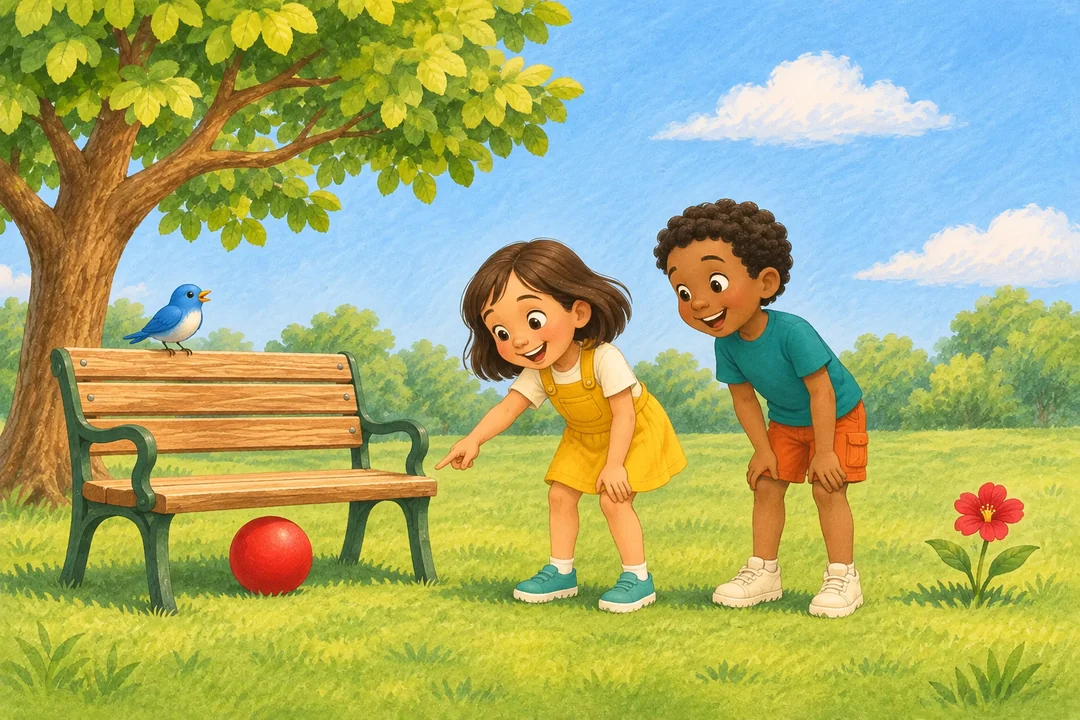
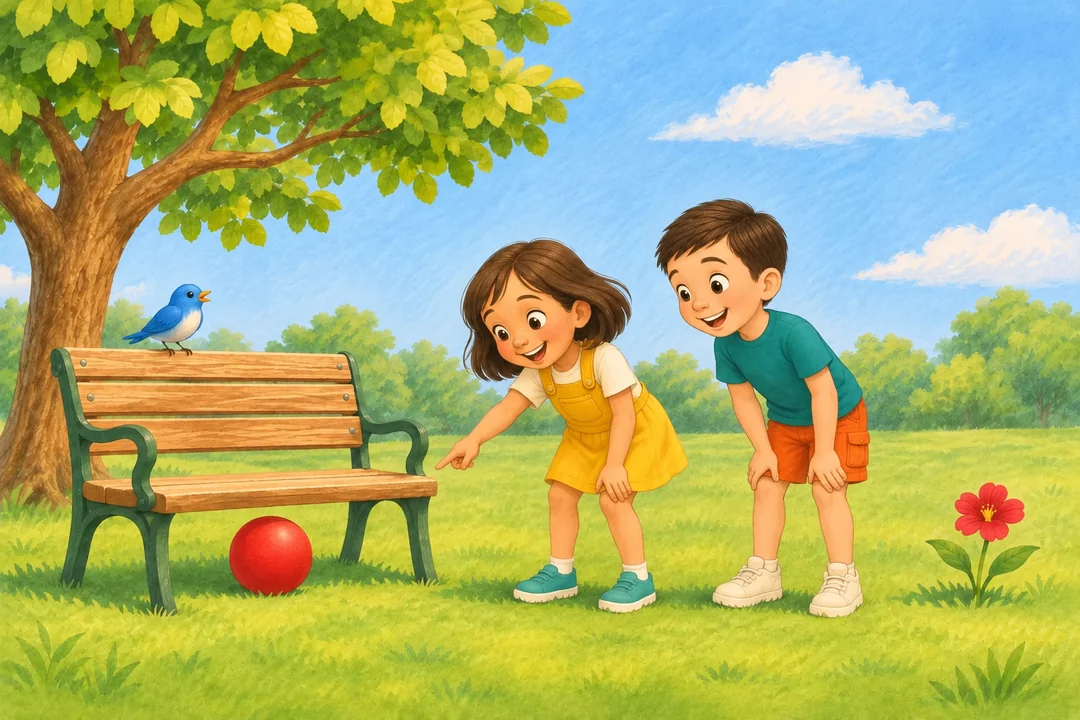
Add the first school bag lesson and update Ben's artwork

diff --git a/shared/fluentKids/school-bag.html b/shared/fluentKids/school-bag.html
@@ -1,0 +1,321 @@
+<div id="kids-full-lesson" aria-label="What’s in My Bag?" data-lesson="school-bag" data-japanese="true" data-tutor="false">
+  <header class="kf-mast">
+    <a class="kf-brand" data-course-link><span aria-hidden="true" class="kf-logo">f</span>Fluent Kids</a>
+    <div aria-label="Age version" class="kf-view" role="group">
+      <button aria-pressed="true" data-age="6-8" type="button">Ages 6–8<span class="kf-ja" lang="ja">6〜8さい</span></button>
+      <button aria-pressed="false" data-age="9-12" type="button">Ages 9–12<span class="kf-ja" lang="ja">9〜12さい</span></button>
+    </div>
+    <div aria-label="Lesson view" class="kf-view" data-view-tools role="group">
+      <button aria-pressed="true" data-view="student" type="button">Student view<span class="kf-ja" lang="ja">子ども用</span></button>
+      <button aria-pressed="false" data-view="tutor" type="button">Tutor guide<span class="kf-ja" lang="ja">先生用ガイド</span></button>
+    </div>
+    <div class="kf-view">
+      <button aria-label="Show Japanese translations" aria-pressed="true" data-japanese-toggle lang="ja" type="button">日本語</button>
+    </div>
+  </header>
+
+  <div class="kf-hero">
+    <div>
+      <p class="kf-kicker">Level 1 · Unit 2 · Lesson 1<span class="kf-ja" lang="ja">レベル1・ユニット2・レッスン1</span></p>
+      <h1>What’s in My Bag?<span class="kf-ja" lang="ja">かばんの中は何かな？</span></h1>
+      <p class="kf-objective">I can ask what’s in someone’s school bag and say what I have.<span class="kf-ja" lang="ja">かばんの中に何があるか聞いたり、自分の持ちものを言ったりできるよ。</span></p>
+      <div class="kf-lesson-tags">
+        <span>My School Bag<span class="kf-ja" lang="ja">学校のかばん</span></span>
+        <span>23 minutes<span class="kf-ja" lang="ja">23分</span></span>
+        <span>+2 minutes optional<span class="kf-ja" lang="ja">時間があれば＋2分</span></span>
+      </div>
+    </div>
+    <img class="kf-hero-art" data-art="school-bag-story" alt="Mia opens her blue school bag. Ben looks at a book, pencil, and eraser on the desk.">
+  </div>
+
+  <nav aria-label="Lesson sections" class="kf-map">
+    <a href="#kf-intro"><b>1</b><span class="kf-nav-copy">Hello<span class="kf-ja" lang="ja">はじめよう</span></span></a>
+    <a href="#kf-learn"><b>2</b><span class="kf-nav-copy">New words<span class="kf-ja" lang="ja">あたらしいことば</span></span></a>
+    <a href="#kf-language"><b>3</b><span class="kf-nav-copy">Say it<span class="kf-ja" lang="ja">言ってみよう</span></span></a>
+    <a href="#kf-story"><b>4</b><span class="kf-nav-copy">Story time<span class="kf-ja" lang="ja">お話の時間</span></span></a>
+    <a href="#kf-practice"><b>5</b><span class="kf-nav-copy">Practice<span class="kf-ja" lang="ja">れんしゅう</span></span></a>
+    <a href="#kf-mission"><b>6</b><span class="kf-nav-copy">Your turn<span class="kf-ja" lang="ja">きみのばん</span></span></a>
+    <a href="#kf-feedback"><b>7</b><span class="kf-nav-copy">Good job<span class="kf-ja" lang="ja">ふりかえり</span></span></a>
+  </nav>
+
+  <div class="kf-main">
+    <section class="kf-section" id="kf-intro">
+      <div class="kf-section-head">
+        <span class="kf-number">1</span>
+        <div><p class="kf-kicker">Introduce<span class="kf-ja" lang="ja">はじめに</span></p><h2>Ready for school?<span class="kf-ja" lang="ja">学校の準備はできたかな？</span></h2></div>
+        <span class="kf-time">1 minute<span class="kf-ja" lang="ja">1分</span></span>
+      </div>
+      <div class="kf-split">
+        <div class="kf-scene"><img data-art="school-bag-story" alt="Mia and Ben with a blue school bag and three school supplies."></div>
+        <div class="kf-copy">
+          <h3>Mia has a school bag.<span class="kf-ja" lang="ja">ミアは学校にかばんを持ってきたよ。</span></h3>
+          <p>She opens it to show Ben what she brought.<span class="kf-ja" lang="ja">かばんを開けて、持ってきたものをベンに見せるよ。</span></p>
+          <div class="kf-prompt"><strong>What color is Mia’s bag?<span class="kf-ja" lang="ja">ミアのかばんは何色かな？</span></strong><span>Point to it and say, “It’s …”.<span class="kf-ja" lang="ja">かばんを指さして、「It’s …」で色を言おう。</span></span></div>
+        </div>
+      </div>
+      <aside class="kf-teacher"><b>Tutor guide · 1 minute<span class="kf-ja" lang="ja">先生用ガイド・1分</span></b><p>Connect to Unit 1 by asking about the blue bag. Then point to the school supplies. Accept words the child already knows before introducing the new question.<span class="kf-ja" lang="ja">青いかばんの色を聞いて、ユニット1の復習をします。次に文房具を指します。子どもがすでに知っていることばを受け入れてから、新しい質問に進みます。</span></p></aside>
+    </section>
+
+    <section class="kf-section" id="kf-learn">
+      <div class="kf-section-head">
+        <span class="kf-number">2</span>
+        <div><p class="kf-kicker">Learn · Step A<span class="kf-ja" lang="ja">学ぼう・ステップA</span></p><h2>Things for school<span class="kf-ja" lang="ja">学校で使うもの</span></h2></div>
+        <span class="kf-time">4 minutes<span class="kf-ja" lang="ja">4分</span></span>
+      </div>
+      <div class="kf-part"><span>A · Look, listen, and say<span class="kf-ja" lang="ja">A・見て、聞いて、言ってみよう</span></span></div>
+      <div class="kf-vocab">
+        <div class="kf-word"><div class="kf-word-art"><img data-art="school-backpack" alt="A blue school bag."></div><div class="kf-word-copy"><strong>bag<span class="kf-ja" lang="ja">かばん</span></strong><p>I have a bag.<span class="kf-ja" lang="ja">かばんを持っているよ。</span></p></div></div>
+        <div class="kf-word"><div class="kf-word-art"><img data-art="school-book" alt="A red book."></div><div class="kf-word-copy"><strong>book<span class="kf-ja" lang="ja">本（ほん）</span></strong><p>I have a book.<span class="kf-ja" lang="ja">本を持っているよ。</span></p></div></div>
+        <div class="kf-word"><div class="kf-word-art"><img data-art="school-pencil" alt="A yellow pencil."></div><div class="kf-word-copy"><strong>pencil<span class="kf-ja" lang="ja">えんぴつ</span></strong><p>I have a pencil.<span class="kf-ja" lang="ja">えんぴつを持っているよ。</span></p></div></div>
+        <div class="kf-word"><div class="kf-word-art"><img data-art="school-eraser" alt="A pink eraser."></div><div class="kf-word-copy"><strong>eraser<span class="kf-ja" lang="ja">消しゴム</span></strong><p>I have an eraser.<span class="kf-ja" lang="ja">消しゴムを持っているよ。</span></p></div></div>
+        <div class="kf-word"><div class="kf-word-art"><img data-art="school-ruler" alt="A green ruler."></div><div class="kf-word-copy"><strong>ruler<span class="kf-ja" lang="ja">ものさし</span></strong><p>I have a ruler.<span class="kf-ja" lang="ja">ものさしを持っているよ。</span></p></div></div>
+        <div class="kf-word"><div class="kf-word-art"><img data-art="school-pencil-case" alt="A purple pencil case with a zipper."></div><div class="kf-word-copy"><strong>pencil case<span class="kf-ja" lang="ja">ふでばこ</span></strong><p>I have a pencil case.<span class="kf-ja" lang="ja">ふでばこを持っているよ。</span></p></div></div>
+      </div>
+      <div class="kf-part"><span>B · Point and say<span class="kf-ja" lang="ja">B・指さして言ってみよう</span></span></div>
+      <div class="kf-talk-strip"><div><h4>Pick two cards. Pretend you have those things.<span class="kf-ja" lang="ja">カードを二枚えらんで、そのものを持っているつもりで言おう。</span></h4><p class="kf-small">Say “I have …” for each card.<span class="kf-ja" lang="ja">カードごとに「I have …」で言おう。</span></p></div><p class="kf-frame">I have <span class="kf-blank">…</span>.<span class="kf-ja" lang="ja">〇〇を持っているよ。</span></p></div>
+      <div class="kf-part"><span>C · Sound time<span class="kf-ja" lang="ja">C・音のれんしゅう</span></span></div>
+      <div class="kf-sound">
+        <div><span class="kf-sound-icon" aria-hidden="true">p</span><div><h4>Listen: pencil · pencil case<span class="kf-ja" lang="ja">聞こう：pencil・pencil case</span></h4><p class="kf-small">Both start with the /p/ sound.<span class="kf-ja" lang="ja">どちらも /p/ の音からはじまるよ。</span></p></div></div>
+        <div><span class="kf-sound-icon" aria-hidden="true">p</span><div><h4>Say: “I have a pencil.”<span class="kf-ja" lang="ja">言ってみよう：「I have a pencil.」</span></h4><p class="kf-small">Start pencil with a little puff of air.<span class="kf-ja" lang="ja">pencil の最初は息を少し出そう。</span></p></div></div>
+      </div>
+      <aside class="kf-teacher"><b>Tutor guide · 4 minutes<span class="kf-ja" lang="ja">先生用ガイド・4分</span></b><p>Read the six labels and have the learner repeat. Contrast pencil with pencil case by pointing to both cards. Model “an eraser” as a whole phrase. Spend the last minute on /p/ and one complete sentence.<span class="kf-ja" lang="ja">六つの名前を読み、子どもにリピートしてもらいます。絵を指して pencil と pencil case のちがいを示します。an eraser はまとめてお手本を示します。最後の1分は /p/ の音と文を一つ練習します。</span></p></aside>
+    </section>
+
+    <section class="kf-section" id="kf-language">
+      <div class="kf-section-head">
+        <span class="kf-number">3</span>
+        <div><p class="kf-kicker">Learn · Step B<span class="kf-ja" lang="ja">学ぼう・ステップB</span></p><h2>Ask what’s inside<span class="kf-ja" lang="ja">中に何があるか聞こう</span></h2></div>
+        <span class="kf-time">2 minutes<span class="kf-ja" lang="ja">2分</span></span>
+      </div>
+      <div class="kf-split">
+        <div class="kf-example">
+          <div class="kf-example-head">Ask your partner.<span class="kf-ja" lang="ja">相手に聞いてみよう。</span></div>
+          <div class="kf-example-body"><p class="kf-frame">What’s in your bag?<span class="kf-ja" lang="ja">かばんの中に何がある？</span></p><img class="kf-question-picture" data-art="school-backpack" alt="A blue school bag."><p class="kf-small">Use <strong>your</strong> when you ask about your partner’s bag.<span class="kf-ja" lang="ja">相手のかばんのことを聞くときは your bag と言うよ。</span></p></div>
+        </div>
+        <div class="kf-example">
+          <div class="kf-example-head">Say what you have.<span class="kf-ja" lang="ja">持っているものを言おう。</span></div>
+          <div class="kf-example-body">
+            <div class="kf-model"><img data-art="school-pencil" alt="A yellow pencil."><p class="kf-frame">I have <strong>a pencil</strong>.<span class="kf-ja" lang="ja">えんぴつを持っているよ。</span></p></div>
+            <div class="kf-model"><img data-art="school-eraser" alt="A pink eraser."><p class="kf-frame">I have <strong>an eraser</strong>.<span class="kf-ja" lang="ja">消しゴムを持っているよ。</span></p></div>
+            <p class="kf-small">Say <strong>a pencil</strong> and <strong>an eraser</strong>.<span class="kf-ja" lang="ja">a pencil、an eraser のように言うよ。</span></p>
+          </div>
+        </div>
+      </div>
+      <div class="kf-part"><span>Look and say<span class="kf-ja" lang="ja">見て、言ってみよう</span></span></div>
+      <div class="kf-prompt"><strong>Pretend these things are in your bag.<span class="kf-ja" lang="ja">この二つがきみのかばんに入っているつもりで話そう。</span></strong><span>Your tutor asks, “What’s in your bag?” Say both answers out loud. Then swap turns.<span class="kf-ja" lang="ja">先生が「What’s in your bag?」と聞くよ。二つとも声に出して答えよう。それからこうたいしよう。</span></span></div>
+      <div class="kf-look-say">
+        <div class="kf-look-card"><img data-art="school-book" alt="A red book."><p class="kf-frame">I have <span class="kf-blank">…</span>.<span class="kf-ja" lang="ja">〇〇を持っているよ。</span></p></div>
+        <div class="kf-look-card"><img data-art="school-ruler" alt="A green ruler."><p class="kf-frame">I have <span class="kf-blank">…</span>.<span class="kf-ja" lang="ja">〇〇を持っているよ。</span></p></div>
+      </div>
+      <aside class="kf-teacher"><b>Tutor guide · 2 minutes<span class="kf-ja" lang="ja">先生用ガイド・2分</span></b><p>Model one question and two short answers. For the picture prompts, accept “a book” and “a ruler,” then model “I have …”. Invite the learner to ask you the question before moving on.<span class="kf-ja" lang="ja">質問と二つの短い答えのお手本を示します。絵では「a book」「a ruler」も受け入れ、次に「I have …」で答えてみせます。次に進む前に、子どもからも同じ質問をしてもらいます。</span></p></aside>
+    </section>
+
+    <section class="kf-section" id="kf-story">
+      <div class="kf-section-head">
+        <span class="kf-number">4</span>
+        <div><p class="kf-kicker">Apply · Speaking<span class="kf-ja" lang="ja">使ってみよう・会話</span></p><h2>Mia opens her bag<span class="kf-ja" lang="ja">ミアがかばんを開けるよ</span></h2></div>
+        <span class="kf-time">4 minutes<span class="kf-ja" lang="ja">4分</span></span>
+      </div>
+      <div class="kf-split">
+        <div class="kf-copy">
+          <div class="kf-scene"><img data-art="school-bag-story" alt="Mia’s blue bag is open on the desk. A red book, a yellow pencil, and a pink eraser sit beside it."></div>
+          <div class="kf-prompt"><strong>Read as Mia. Your tutor reads as Ben.<span class="kf-ja" lang="ja">きみはミア役、先生はベン役だよ。</span></strong><span>Point to each thing as you say its name. Then swap parts.<span class="kf-ja" lang="ja">名前を言いながらものを指さそう。それから役をこうたいしよう。</span></span></div>
+        </div>
+        <div>
+          <h4>Ready to start class<span class="kf-ja" lang="ja">授業の準備ができたね</span></h4>
+          <div class="kf-dialogue">
+            <div class="kf-line"><span class="kf-person" aria-hidden="true">B</span><div class="kf-bubble"><b>Ben</b>Hi, Mia! What’s in your bag?<span class="kf-ja" lang="ja">やあ、ミア！ かばんの中に何がある？</span></div></div>
+            <div class="kf-line"><span class="kf-person" aria-hidden="true">M</span><div class="kf-bubble"><b>Mia</b>I have a book.<span class="kf-ja" lang="ja">本を持っているよ。</span></div></div>
+            <div class="kf-line"><span class="kf-person" aria-hidden="true">B</span><div class="kf-bubble"><b>Ben</b>What color is it?<span class="kf-ja" lang="ja">何色かな？</span></div></div>
+            <div class="kf-line"><span class="kf-person" aria-hidden="true">M</span><div class="kf-bubble"><b>Mia</b>It’s red. I have a pencil, too.<span class="kf-ja" lang="ja">赤だよ。えんぴつも持っているよ。</span></div></div>
+            <div class="kf-line"><span class="kf-person" aria-hidden="true">B</span><div class="kf-bubble"><b>Ben</b>What else do you have?<span class="kf-ja" lang="ja">ほかに何を持っているの？</span></div></div>
+            <div class="kf-line"><span class="kf-person" aria-hidden="true">M</span><div class="kf-bubble"><b>Mia</b>I have an eraser. What’s in your bag, Ben?<span class="kf-ja" lang="ja">消しゴムを持っているよ。ベンのかばんには何が入っている？</span></div></div>
+            <div class="kf-line"><span class="kf-person" aria-hidden="true">B</span><div class="kf-bubble"><b>Ben</b>I have a ruler.<span class="kf-ja" lang="ja">ものさしを持っているよ。</span></div></div>
+            <div class="kf-line"><span class="kf-person" aria-hidden="true">M</span><div class="kf-bubble"><b>Mia</b>Great! Let’s get ready for class.<span class="kf-ja" lang="ja">いいね！ 授業の準備をしよう。</span></div></div>
+          </div>
+        </div>
+      </div>
+      <div class="kf-part"><span>Let’s check the story<span class="kf-ja" lang="ja">お話をふりかえろう</span></span></div>
+      <div class="kf-questions">
+        <div class="kf-question"><b>1</b><div>What color is Mia’s book?<span class="kf-ja" lang="ja">ミアの本は何色かな？</span></div></div>
+        <div class="kf-question"><b>2</b><div>Does Mia have an eraser?<span class="kf-ja" lang="ja">ミアは消しゴムを持っているかな？</span></div></div>
+        <div class="kf-question"><b>3</b><div>What does Ben have?<span class="kf-ja" lang="ja">ベンは何を持っているかな？</span></div></div>
+        <div class="kf-question"><b>4</b><div>What does Mia ask Ben about his bag?<span class="kf-ja" lang="ja">ミアはベンのかばんについて何と聞いたかな？</span></div></div>
+      </div>
+      <aside class="kf-teacher"><b>Tutor guide · 4 minutes<span class="kf-ja" lang="ja">先生用ガイド・4分</span></b><p>Read once as Ben, then swap so the learner asks the first question. Model line by line if needed. Answers: 1. Red. 2. Yes. 3. A ruler. 4. “What’s in your bag?”<span class="kf-ja" lang="ja">最初は先生がベン役で読み、次は子どもが最初の質問をするように役をこうたいします。必要なら一文ずつお手本を示します。答え：1. 赤。2. 持っている。3. ものさし。4.「What’s in your bag?」</span></p></aside>
+    </section>
+
+    <section class="kf-section" id="kf-practice">
+      <div class="kf-section-head">
+        <span class="kf-number">5</span>
+        <div><p class="kf-kicker">Exercise<span class="kf-ja" lang="ja">れんしゅう</span></p><h2>Ask and answer<span class="kf-ja" lang="ja">聞いて、答えよう</span></h2></div>
+        <span class="kf-time">4 minutes<span class="kf-ja" lang="ja">4分</span></span>
+      </div>
+      <div class="kf-part"><span>Step A · Look and answer<span class="kf-ja" lang="ja">ステップA・絵を見て答えよう</span></span></div>
+      <p class="kf-bag-space">Choose an answer for each picture. Then say it out loud.<span class="kf-ja" lang="ja">それぞれの絵に合う答えをえらんで、声に出して言おう。</span></p>
+      <div class="kf-choice-grid">
+        <div class="kf-picture-question" data-item="a1" data-answer="0" data-explanation="This is a pencil. Say “I have a pencil.”" data-explanation-ja="えんぴつだよ。「I have a pencil.」と言おう。">
+          <div class="kf-word-art"><img data-art="school-pencil" alt="A yellow pencil."></div>
+          <h4>1. What’s in your bag?<span class="kf-ja" lang="ja">かばんの中に何がある？</span></h4>
+          <div class="kf-choices">
+            <button aria-pressed="false" class="kf-choice" type="button">I have a pencil.<span class="kf-ja" lang="ja">えんぴつを持っているよ。</span></button>
+            <button aria-pressed="false" class="kf-choice" type="button">I have a ruler.<span class="kf-ja" lang="ja">ものさしを持っているよ。</span></button>
+          </div>
+          <p aria-live="polite" class="kf-feedback"><span data-en></span><span class="kf-ja" data-ja lang="ja"></span></p>
+        </div>
+        <div class="kf-picture-question" data-item="a2" data-answer="1" data-explanation="This is an eraser. Say “I have an eraser.”" data-explanation-ja="消しゴムだよ。「I have an eraser.」と言おう。">
+          <div class="kf-word-art"><img data-art="school-eraser" alt="A pink eraser."></div>
+          <h4>2. What do you have?<span class="kf-ja" lang="ja">何を持っている？</span></h4>
+          <div class="kf-choices">
+            <button aria-pressed="false" class="kf-choice" type="button">I have a book.<span class="kf-ja" lang="ja">本を持っているよ。</span></button>
+            <button aria-pressed="false" class="kf-choice" type="button">I have an eraser.<span class="kf-ja" lang="ja">消しゴムを持っているよ。</span></button>
+          </div>
+          <p aria-live="polite" class="kf-feedback"><span data-en></span><span class="kf-ja" data-ja lang="ja"></span></p>
+        </div>
+        <div class="kf-picture-question" data-item="a3" data-answer="0" data-explanation="The zipper is on a pencil case." data-explanation-ja="ファスナーのついたふでばこだよ。">
+          <div class="kf-word-art"><img data-art="school-pencil-case" alt="A purple zippered pencil case."></div>
+          <h4>3. What’s in your bag?<span class="kf-ja" lang="ja">かばんの中に何がある？</span></h4>
+          <div class="kf-choices">
+            <button aria-pressed="false" class="kf-choice" type="button">I have a pencil case.<span class="kf-ja" lang="ja">ふでばこを持っているよ。</span></button>
+            <button aria-pressed="false" class="kf-choice" type="button">I have a pencil.<span class="kf-ja" lang="ja">えんぴつを持っているよ。</span></button>
+          </div>
+          <p aria-live="polite" class="kf-feedback"><span data-en></span><span class="kf-ja" data-ja lang="ja"></span></p>
+        </div>
+        <div class="kf-picture-question" data-item="a4" data-answer="1" data-explanation="This is a ruler. Say “I have a ruler.”" data-explanation-ja="ものさしだよ。「I have a ruler.」と言おう。">
+          <div class="kf-word-art"><img data-art="school-ruler" alt="A green ruler."></div>
+          <h4>4. What do you have?<span class="kf-ja" lang="ja">何を持っている？</span></h4>
+          <div class="kf-choices">
+            <button aria-pressed="false" class="kf-choice" type="button">I have an eraser.<span class="kf-ja" lang="ja">消しゴムを持っているよ。</span></button>
+            <button aria-pressed="false" class="kf-choice" type="button">I have a ruler.<span class="kf-ja" lang="ja">ものさしを持っているよ。</span></button>
+          </div>
+          <p aria-live="polite" class="kf-feedback"><span data-en></span><span class="kf-ja" data-ja lang="ja"></span></p>
+        </div>
+      </div>
+      <div class="kf-part"><span>Step B · Choose what to say<span class="kf-ja" lang="ja">ステップB・何と言うかえらぼう</span></span></div>
+      <div class="kf-choice-grid">
+        <div class="kf-picture-question" data-item="b1" data-answer="0" data-explanation="Ask “What’s in your bag?” to ask what’s inside." data-explanation-ja="中に何があるかは「What’s in your bag?」と聞こう。">
+          <h4>1. Ask Mia what’s inside her bag.<span class="kf-ja" lang="ja">ミアにかばんの中に何があるか聞こう。</span></h4>
+          <div class="kf-choices">
+            <button aria-pressed="false" class="kf-choice" type="button">What’s in your bag?<span class="kf-ja" lang="ja">かばんの中に何がある？</span></button>
+            <button aria-pressed="false" class="kf-choice" type="button">What color is your bag?<span class="kf-ja" lang="ja">かばんは何色かな？</span></button>
+          </div>
+          <p aria-live="polite" class="kf-feedback"><span data-en></span><span class="kf-ja" data-ja lang="ja"></span></p>
+        </div>
+        <div class="kf-picture-question" data-item="b2" data-answer="1" data-explanation="Ask “What color is it?” to ask about the book." data-explanation-ja="本の色は「What color is it?」と聞こう。">
+          <h4>2. Ben says, “I have a book.” Ask about its color.<span class="kf-ja" lang="ja">ベンが「本を持っているよ」と言ったよ。本の色を聞こう。</span></h4>
+          <div class="kf-choices">
+            <button aria-pressed="false" class="kf-choice" type="button">What’s in your bag?<span class="kf-ja" lang="ja">かばんの中に何がある？</span></button>
+            <button aria-pressed="false" class="kf-choice" type="button">What color is it?<span class="kf-ja" lang="ja">何色かな？</span></button>
+          </div>
+          <p aria-live="polite" class="kf-feedback"><span data-en></span><span class="kf-ja" data-ja lang="ja"></span></p>
+        </div>
+        <div class="kf-picture-question" data-item="b3" data-answer="0" data-explanation="Say what you have: “I have a book.”" data-explanation-ja="持っているものを「I have a book.」と言おう。">
+          <h4>3. Mia asks, “What’s in your bag?” You brought a book.<span class="kf-ja" lang="ja">ミアが「かばんの中に何がある？」と聞いたよ。きみは本を持ってきたよ。</span></h4>
+          <div class="kf-choices">
+            <button aria-pressed="false" class="kf-choice" type="button">I have a book.<span class="kf-ja" lang="ja">本を持っているよ。</span></button>
+            <button aria-pressed="false" class="kf-choice" type="button">It’s blue.<span class="kf-ja" lang="ja">青だよ。</span></button>
+          </div>
+          <p aria-live="polite" class="kf-feedback"><span data-en></span><span class="kf-ja" data-ja lang="ja"></span></p>
+        </div>
+        <div class="kf-picture-question" data-item="b4" data-answer="1" data-explanation="Use “an eraser.” Say the two words together." data-explanation-ja="an eraser と言うよ。二つのことばを続けて言ってみよう。">
+          <h4>4. Say that you have an eraser.<span class="kf-ja" lang="ja">消しゴムを持っていると言おう。</span></h4>
+          <div class="kf-choices">
+            <button aria-pressed="false" class="kf-choice" type="button">I have a eraser.<span class="kf-ja" lang="ja">消しゴムを持っているよ。</span></button>
+            <button aria-pressed="false" class="kf-choice" type="button">I have an eraser.<span class="kf-ja" lang="ja">消しゴムを持っているよ。</span></button>
+          </div>
+          <p aria-live="polite" class="kf-feedback"><span data-en></span><span class="kf-ja" data-ja lang="ja"></span></p>
+        </div>
+      </div>
+      <div class="kf-actions">
+        <button class="kf-check-action" data-check type="button">Check answers</button>
+        <p class="kf-exercise-status" aria-live="polite"><span data-en></span><span class="kf-ja" data-ja lang="ja"></span></p>
+      </div>
+      <aside class="kf-teacher"><b>Tutor guide · 4 minutes<span class="kf-ja" lang="ja">先生用ガイド・4分</span></b><p>Read the prompts aloud if needed. Ask for one full spoken answer after checking. In B4, read both options so the learner can hear the difference.<span class="kf-ja" lang="ja">必要なら問題を読み上げます。答え合わせのあと、答えを一つ選び、文で言ってもらいます。B4では二つの答えを読み、音のちがいを聞いてもらいます。</span></p><p><strong>Answers:</strong> A: 1 a pencil, 2 an eraser, 3 a pencil case, 4 a ruler. B: 1 What’s in your bag? 2 What color is it? 3 I have a book. 4 I have an eraser.<span class="kf-ja" lang="ja">答え：A 1 えんぴつ、2 消しゴム、3 ふでばこ、4 ものさし。B 1 かばんの中に何がある？ 2 何色かな？ 3 本を持っているよ。4 消しゴムを持っているよ。</span></p></aside>
+    </section>
+
+    <section class="kf-section kf-mission" id="kf-mission">
+      <div class="kf-section-head">
+        <span class="kf-number">6</span>
+        <div><p class="kf-kicker">Mission · Challenge 1<span class="kf-ja" lang="ja">ミッション・チャレンジ1</span></p><h2>Show what’s in your bag<span class="kf-ja" lang="ja">かばんの中をしょうかいしよう</span></h2></div>
+        <span class="kf-time">6 minutes<span class="kf-ja" lang="ja">6分</span></span>
+      </div>
+      <figure class="kf-bag-scene">
+        <div class="kf-scene"><img data-art="school-bag-mission" alt="Ben stands behind an open green bag. A ruler, pencil, and pencil case are on the desk."></div>
+        <figcaption class="kf-caption">Pretend this is your bag, or use your real one.<span class="kf-ja" lang="ja">このかばんが自分のものだと思って話そう。本物のかばんを使ってもいいよ。</span></figcaption>
+      </figure>
+      <div class="kf-split">
+        <div class="kf-copy" data-age-content="6-8">
+          <div class="kf-prompt"><strong>Show two things from your bag.<span class="kf-ja" lang="ja">かばんに入っているものを二つ見せよう。</span></strong><span>Your tutor asks, “What’s in your bag?”<span class="kf-ja" lang="ja">先生が「What’s in your bag?」と聞くよ。</span></span></div>
+          <ol class="kf-checklist">
+            <li><span>1</span><div>Point to two things in the picture or show two real things.<span class="kf-ja" lang="ja">絵の中のものを二つ指さそう。本物を二つ見せてもいいよ。</span></div></li>
+            <li><span>2</span><div>Say “I have …” for each one.<span class="kf-ja" lang="ja">それぞれ「I have …」で言おう。</span></div></li>
+            <li><span>3</span><div>Swap turns. Ask your tutor what’s in their bag and listen.<span class="kf-ja" lang="ja">こうたいして、先生のかばんに何が入っているか聞こう。答えを聞いてね。</span></div></li>
+          </ol>
+        </div>
+        <div class="kf-copy" data-age-content="9-12" hidden>
+          <div class="kf-prompt"><strong>Interview your partner.<span class="kf-ja" lang="ja">相手にインタビューしよう。</span></strong><span>Use the picture or your real school supplies.<span class="kf-ja" lang="ja">絵か、本物の学用品を使おう。</span></span></div>
+          <ol class="kf-checklist">
+            <li><span>1</span><div>Ask, “What’s in your bag?” Listen and ask one more question about a thing your tutor names.<span class="kf-ja" lang="ja">「What’s in your bag?」と聞こう。答えを聞いて、先生が言ったものについてもう一つ質問しよう。</span></div></li>
+            <li><span>2</span><div>Swap roles. Name three things from your bag. Add a color to one.<span class="kf-ja" lang="ja">こうたいしよう。かばんの中のものを三つ言って、そのうち一つは色も言おう。</span></div></li>
+            <li><span>3</span><div>Tell your tutor one thing you both have, if you find a match. Say “I have a …, too.”<span class="kf-ja" lang="ja">同じものがあったら、「I have a …, too.」で先生に伝えよう。</span></div></li>
+          </ol>
+        </div>
+        <div class="kf-copy">
+          <div class="kf-prompt">
+            <span class="kf-kicker">Words to help you<span class="kf-ja" lang="ja">使えることば</span></span>
+            <strong>What’s in your bag?<span class="kf-ja" lang="ja">かばんの中に何がある？</span></strong>
+            <span>I have a … / I have an eraser.<span class="kf-ja" lang="ja">〇〇を持っているよ。／消しゴムを持っているよ。</span></span>
+            <span>What color is it? · What else do you have?<span class="kf-ja" lang="ja">何色かな？・ほかに何を持っているの？</span></span>
+          </div>
+        </div>
+      </div>
+      <aside class="kf-teacher">
+        <b>Tutor guide · 6 minutes<span class="kf-ja" lang="ja">先生用ガイド・6分</span></b>
+        <p><strong>Set up (1 minute):</strong> Let the learner look at the picture. It shows a ruler, a pencil, and a pencil case. Use real items if the child has them handy.<span class="kf-ja" lang="ja">準備（1分）：絵を見る時間を取ります。絵にはものさし、えんぴつ、ふでばこがあります。手元にあれば本物を使ってもかまいません。</span></p>
+        <p><strong>Talk (3 minutes):</strong> Let the child take a turn asking and answering. For an interview, give a first answer with a familiar item, such as a pencil, so the learner can ask a follow-up and may find a match.<span class="kf-ja" lang="ja">会話（3分）：子どもが質問する番と答える番を作ります。インタビューでは、えんぴつなど知っているものを答えに入れて、次の質問や同じ持ちものを見つけるきっかけを作ります。</span></p>
+        <p><strong>Try again (2 minutes):</strong> Notice whether the learner asks the question and names items in an “I have …” sentence. Give one specific success and practice one short exchange again.<span class="kf-ja" lang="ja">もう一度（2分）：質問ができたか、「I have …」でものの名前を伝えられたかを見ます。できたことを一つ伝え、短い会話をもう一度練習します。</span></p>
+      </aside>
+      <details class="kf-optional">
+        <summary><div><p class="kf-kicker">Challenge 2 · Optional · +2 minutes<span class="kf-ja" lang="ja">チャレンジ2・時間があれば＋2分</span></p><h3>Guess the school thing<span class="kf-ja" lang="ja">学用品を当てよう</span></h3></div></summary>
+        <div class="kf-talk-strip kf-bag-space"><div><h4>It’s pink. It helps fix a pencil mistake.<span class="kf-ja" lang="ja">ピンクだよ。えんぴつで書きまちがえたときに使うよ。</span></h4><p class="kf-small">What is it? Say your guess before you open the picture.<span class="kf-ja" lang="ja">何かな？ 絵を開く前に答えを言おう。</span></p></div></div>
+        <details class="kf-guess-answer kf-bag-reveal"><summary><span>Show picture<span class="kf-ja" lang="ja">絵を見る</span></span></summary><img data-art="school-eraser" alt="A pink eraser."><p>It’s an eraser.<span class="kf-ja" lang="ja">消しゴムだよ。</span></p></details>
+      </details>
+    </section>
+
+    <section class="kf-section" id="kf-feedback">
+      <div class="kf-section-head">
+        <span class="kf-number">7</span>
+        <div>
+          <p class="kf-kicker">Feedback<span class="kf-ja" lang="ja">ふりかえり</span></p>
+          <h2>Look what you can do!<span class="kf-ja" lang="ja">できたことを見つけよう！</span></h2>
+        </div>
+        <span class="kf-time">2 minutes<span class="kf-ja" lang="ja">2分</span></span>
+      </div>
+      <div class="kf-feedback-goal">
+        <span class="kf-sound-icon" aria-hidden="true">★</span>
+        <div><p class="kf-kicker">Our lesson goal<span class="kf-ja" lang="ja">今日のめあて</span></p><strong>I can ask what’s in a bag and say what I have.<span class="kf-ja" lang="ja">かばんの中に何があるか聞いて、自分の持ちものを言えるよ。</span></strong></div>
+      </div>
+      <h4>How did it feel? Choose one.<span class="kf-ja" lang="ja">どうだった？ 一つえらぼう。</span></h4>
+      <div aria-label="How the lesson felt" class="kf-reflect">
+        <button aria-pressed="false" class="kf-choice" data-reflect="Let’s try together" data-reflect-ja="いっしょにやってみたい" type="button"><strong>Let’s try together<span class="kf-ja" lang="ja">いっしょにやってみたい</span></strong><span>I would like a model.<span class="kf-ja" lang="ja">お手本を見たいな。</span></span></button>
+        <button aria-pressed="false" class="kf-choice" data-reflect="A little help, please" data-reflect-ja="少しヒントがほしい" type="button"><strong>A little help, please<span class="kf-ja" lang="ja">少しヒントがほしい</span></strong><span>I can do it with a hint.<span class="kf-ja" lang="ja">ヒントがあればできるよ。</span></span></button>
+        <button aria-pressed="false" class="kf-choice" data-reflect="I can do it" data-reflect-ja="ひとりでできるよ！" type="button"><strong>I can do it!<span class="kf-ja" lang="ja">ひとりでできるよ！</span></strong><span>I’m ready for another turn.<span class="kf-ja" lang="ja">もう一度やってみたいな。</span></span></button>
+      </div>
+      <div class="kf-split">
+        <div class="kf-feedback-space"><h4>Tell your tutor<span class="kf-ja" lang="ja">先生に伝えよう</span></h4><p>“I have <span class="kf-blank">…</span>.”<span class="kf-ja" lang="ja">「〇〇を持っているよ。」</span></p><p>Name one thing you showed from your bag.<span class="kf-ja" lang="ja">見せた持ちものを一つ言おう。</span></p></div>
+        <div class="kf-feedback-space"><h4>Ask one more time<span class="kf-ja" lang="ja">もう一度聞いてみよう</span></h4><p>Ask your tutor, “What’s in your bag?”<span class="kf-ja" lang="ja">先生に「What’s in your bag?」と聞こう。</span></p><p>Listen for one school thing.<span class="kf-ja" lang="ja">答えを聞いて、学用品の名前を一つ聞き取ろう。</span></p></div>
+      </div>
+      <p class="kf-small kf-bag-space kf-reflection-status" aria-live="polite"><span data-en>Your tutor will tell you one thing you did well and one thing to try again.</span><span class="kf-ja" data-ja lang="ja">先生が、できたことと、もう一度れんしゅうすることを一つずつ伝えるよ。</span></p>
+      <aside class="kf-teacher">
+        <b>Tutor guide · 2 minutes<span class="kf-ja" lang="ja">先生用ガイド・2分</span></b>
+        <p>Use the speaking mission to give one specific success and one next step. For example: “You asked me what was in my bag. Let’s try ‘I have an eraser’ one more time.”<span class="kf-ja" lang="ja">ミッションでできたことと、次に練習することを一つずつ具体的に伝えます。例：「先生のかばんの中を聞けたね。『I have an eraser.』をもう一度言ってみよう。」</span></p>
+      </aside>
+      <p class="kf-print-note">Fluent Kids · Level 1 · Unit 2 · Lesson 1</p>
+    </section>
+  </div>
+
+  <footer class="kf-footer">
+    <div><strong>See you next time!<span class="kf-ja" lang="ja">またね！</span></strong><p class="kf-small">Next time you pack a bag, name one thing in English.<span class="kf-ja" lang="ja">次にかばんを準備するとき、ものの名前を一つ英語で言おう。</span></p></div>
+    <a href="#kids-full-lesson">Back to the top ↑<span class="kf-ja" lang="ja">ページのはじめへ</span></a>
+  </footer>
+</div>

diff --git a/shared/fluentKids/lesson.ts b/shared/fluentKids/lesson.ts
@@ -3,6 +3,7 @@ import colorHunt from './color-hunt.html?raw';
 import wheresTheBall from './wheres-the-ball.html?raw';
 import parkDetectives from './park-detectives.html?raw';
 import parkGuide from './park-guide.html?raw';
+import schoolBag from './school-bag.html?raw';
 import bird from './art/bird.webp';
 import tree from './art/tree.webp';
 import ball from './art/ball.webp';
@@ -20,11 +21,20 @@ import blueBallOnBench from './art/blue-ball-on-bench.webp';
 import blueBallUnderBench from './art/blue-ball-under-bench.webp';
 import blueBallNextToBench from './art/blue-ball-next-to-bench.webp';
 import parkGuideTour from './art/park-guide-tour.webp';
+import schoolBagStory from './art/school-bag-story.webp';
+import schoolBagMission from './art/school-bag-mission.webp';
+import schoolBackpack from './art/school-backpack.webp';
+import schoolBook from './art/school-book.webp';
+import schoolPencil from './art/school-pencil.webp';
+import schoolEraser from './art/school-eraser.webp';
+import schoolRuler from './art/school-ruler.webp';
+import schoolPencilCase from './art/school-pencil-case.webp';
 import {
   COLOR_HUNT_LESSON_ID,
   PARK_DETECTIVES_LESSON_ID,
   PARK_GUIDE_LESSON_ID,
   PARK_LESSON_ID,
+  SCHOOL_BAG_LESSON_ID,
   WHERES_THE_BALL_LESSON_ID,
   type FluentKidsLessonId,
 } from './curriculum';
@@ -36,6 +46,7 @@ const templates: Record<FluentKidsLessonId, string> = {
   [WHERES_THE_BALL_LESSON_ID]: wheresTheBall,
   [PARK_DETECTIVES_LESSON_ID]: parkDetectives,
   [PARK_GUIDE_LESSON_ID]: parkGuide,
+  [SCHOOL_BAG_LESSON_ID]: schoolBag,
 };
 
 const artwork: Record<string, string> = {
@@ -49,6 +60,14 @@ const artwork: Record<string, string> = {
   'blue-ball-under-bench': blueBallUnderBench,
   'blue-ball-next-to-bench': blueBallNextToBench,
   'park-guide-tour': parkGuideTour,
+  'school-bag-story': schoolBagStory,
+  'school-bag-mission': schoolBagMission,
+  'school-backpack': schoolBackpack,
+  'school-book': schoolBook,
+  'school-pencil': schoolPencil,
+  'school-eraser': schoolEraser,
+  'school-ruler': schoolRuler,
+  'school-pencil-case': schoolPencilCase,
 };
 
 interface LessonOptions {

diff --git a/shared/fluentKids/curriculum.ts b/shared/fluentKids/curriculum.ts
@@ -9,6 +9,7 @@ export const COLOR_HUNT_LESSON_ID = 'fluent-kids-l1-u1-l2';
 export const WHERES_THE_BALL_LESSON_ID = 'fluent-kids-l1-u1-l3';
 export const PARK_DETECTIVES_LESSON_ID = 'fluent-kids-l1-u1-l4';
 export const PARK_GUIDE_LESSON_ID = 'fluent-kids-l1-u1-l5';
+export const SCHOOL_BAG_LESSON_ID = 'fluent-kids-l1-u2-l1';
 
 const availableLessons = [
   { id: PARK_LESSON_ID, goalTextEn: 'I can name things I see and ask, “What do you see?”' },
@@ -16,6 +17,7 @@ const availableLessons = [
   { id: WHERES_THE_BALL_LESSON_ID, goalTextEn: 'I can ask where something is and say where it is.' },
   { id: PARK_DETECTIVES_LESSON_ID, goalTextEn: 'I can ask for two clues and use them to find something.' },
   { id: PARK_GUIDE_LESSON_ID, goalTextEn: 'I can give a short park tour and ask and answer questions about what I see.' },
+  { id: SCHOOL_BAG_LESSON_ID, goalTextEn: 'I can ask what’s in someone’s school bag and say what I have.' },
 ] as const;
 
 export type FluentKidsLessonId = typeof availableLessons[number]['id'];

diff --git a/shared/fluentKids/lesson.css b/shared/fluentKids/lesson.css
@@ -412,6 +412,9 @@
 
 #kids-full-lesson .kf-guide-space { margin: 14px 0; }
 #kids-full-lesson .kf-guide-scene { margin: 0 0 20px; }
+#kids-full-lesson .kf-bag-space { margin: 14px 0; }
+#kids-full-lesson .kf-bag-scene { margin: 0 0 20px; }
+#kids-full-lesson .kf-bag-reveal { width: min(100%, 240px); }
 @media (max-width: 650px) {
   #kids-full-lesson .kf-guide-steps { grid-template-columns: minmax(0, 1fr); }
   #kids-full-lesson .kf-guide-places .kf-word-copy strong { font-size: 13px; }
